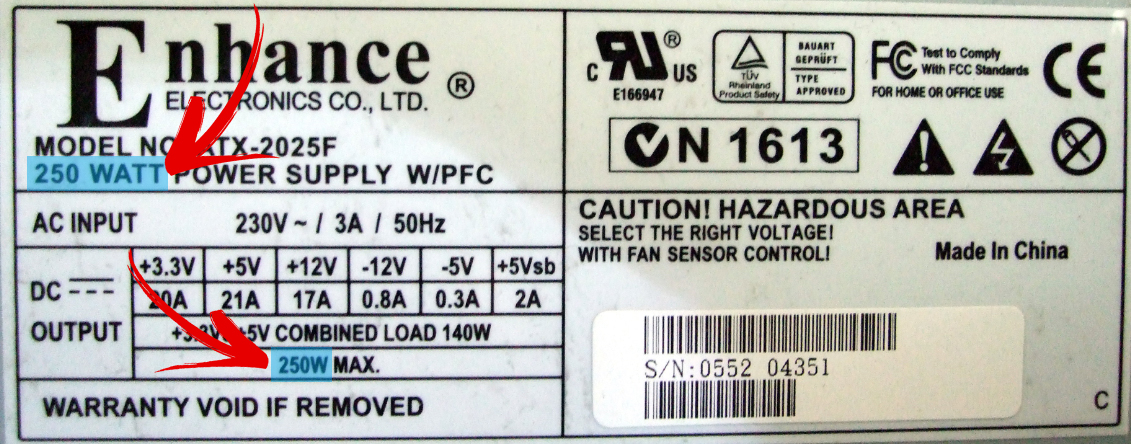
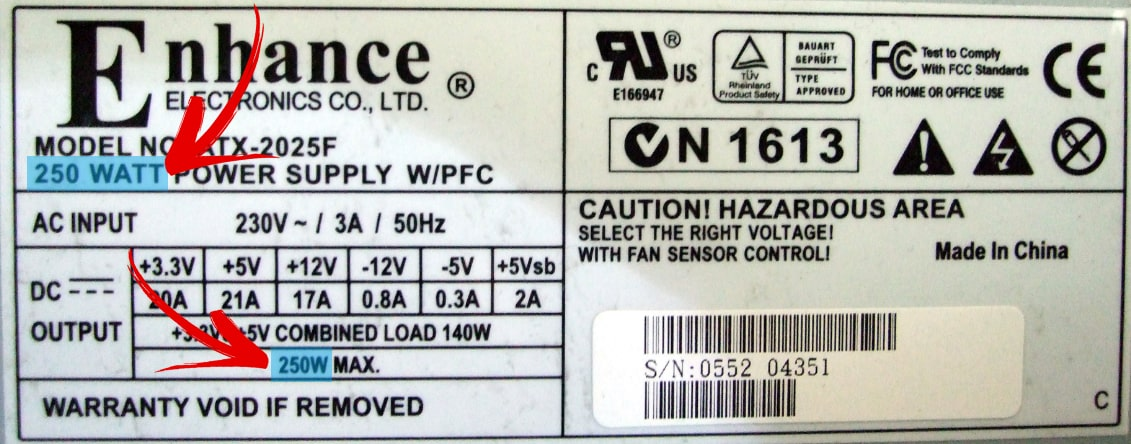
[development] Optimize images & remove unused import

diff --git a/SystemInfoCollector/SystemInfoCollector/Views/Preferences.xaml b/SystemInfoCollector/SystemInfoCollector/Views/Preferences.xaml
@@ -1,9 +1,8 @@
 <UserControl x:Class="SystemInfoCollector.Views.Preferences"
              xmlns="http://schemas.microsoft.com/winfx/2006/xaml/presentation"
+             xmlns:d="http://schemas.microsoft.com/expression/blend/2008"
              xmlns:x="http://schemas.microsoft.com/winfx/2006/xaml"
-             xmlns:mc="http://schemas.openxmlformats.org/markup-compatibility/2006" 
-             xmlns:d="http://schemas.microsoft.com/expression/blend/2008" 
-             xmlns:local="clr-namespace:SystemInfoCollector.Views"
+             xmlns:mc="http://schemas.openxmlformats.org/markup-compatibility/2006"
              mc:Ignorable="d" 
              d:DesignHeight="450" d:DesignWidth="800">
     <Grid>

diff --git a/SystemInfoCollector/SystemInfoCollector/Views/InfoView.xaml b/SystemInfoCollector/SystemInfoCollector/Views/InfoView.xaml
@@ -1,9 +1,8 @@
 <UserControl x:Class="SystemInfoCollector.Views.InfoView"
              xmlns="http://schemas.microsoft.com/winfx/2006/xaml/presentation"
+             xmlns:d="http://schemas.microsoft.com/expression/blend/2008"
              xmlns:x="http://schemas.microsoft.com/winfx/2006/xaml"
-             xmlns:mc="http://schemas.openxmlformats.org/markup-compatibility/2006" 
-             xmlns:d="http://schemas.microsoft.com/expression/blend/2008" 
-             xmlns:local="clr-namespace:SystemInfoCollector.Views"
+             xmlns:mc="http://schemas.openxmlformats.org/markup-compatibility/2006"
              mc:Ignorable="d" 
              d:DesignHeight="450" d:DesignWidth="800">
     <Grid>

diff --git a/SystemInfoCollector/SystemInfoCollector/Views/EnterPSUSpecs.xaml b/SystemInfoCollector/SystemInfoCollector/Views/EnterPSUSpecs.xaml
@@ -1,9 +1,8 @@
 <Window x:Class="SystemInfoCollector.Views.EnterPSUSpecs"
         xmlns="http://schemas.microsoft.com/winfx/2006/xaml/presentation"
-        xmlns:x="http://schemas.microsoft.com/winfx/2006/xaml"
         xmlns:d="http://schemas.microsoft.com/expression/blend/2008"
+        xmlns:x="http://schemas.microsoft.com/winfx/2006/xaml"
         xmlns:mc="http://schemas.openxmlformats.org/markup-compatibility/2006"
-        xmlns:local="clr-namespace:SystemInfoCollector.Views"
         mc:Ignorable="d"
         WindowStartupLocation="CenterScreen" 
         Title="EnterPSUSpecs" Height="450" Width="800">

diff --git a/SystemInfoCollector/SystemInfoCollector/Styles/Styles.xaml b/SystemInfoCollector/SystemInfoCollector/Styles/Styles.xaml
@@ -1,6 +1,6 @@
 <ResourceDictionary xmlns="http://schemas.microsoft.com/winfx/2006/xaml/presentation"
                     xmlns:x="http://schemas.microsoft.com/winfx/2006/xaml"
-                    xmlns:local="clr-namespace:SystemInfoCollector.Styles" xmlns:system="clr-namespace:System;assembly=mscorlib">
+                    xmlns:system="clr-namespace:System;assembly=mscorlib">
 
     <!--Colors-->
     <SolidColorBrush x:Key="Primary" Color="#5548e0"/>

diff --git a/SystemInfoCollector/SystemInfoCollector/Views/EnterPSUSpecs.xaml.cs b/SystemInfoCollector/SystemInfoCollector/Views/EnterPSUSpecs.xaml.cs
@@ -1,17 +1,6 @@
-using System;
-using System.Collections.Generic;
-using System.Linq;
-using System.Text;
-using System.Text.RegularExpressions;
-using System.Threading.Tasks;
+using System.Text.RegularExpressions;
 using System.Windows;
-using System.Windows.Controls;
-using System.Windows.Data;
-using System.Windows.Documents;
 using System.Windows.Input;
-using System.Windows.Media;
-using System.Windows.Media.Imaging;
-using System.Windows.Shapes;
 using SystemInfoCollector.Models;
 
 namespace SystemInfoCollector.Views

diff --git a/SystemInfoCollector/SystemInfoCollector/Views/InfoView.xaml.cs b/SystemInfoCollector/SystemInfoCollector/Views/InfoView.xaml.cs
@@ -1,17 +1,4 @@
-using System;
-using System.Collections.Generic;
-using System.Linq;
-using System.Text;
-using System.Threading.Tasks;
-using System.Windows;
-using System.Windows.Controls;
-using System.Windows.Data;
-using System.Windows.Documents;
-using System.Windows.Input;
-using System.Windows.Media;
-using System.Windows.Media.Imaging;
-using System.Windows.Navigation;
-using System.Windows.Shapes;
+using System.Windows.Controls;
 
 namespace SystemInfoCollector.Views
 {

diff --git a/SystemInfoCollector/SystemInfoCollector/Services/Collectors/NetworkInterfaceInfoCollector.cs b/SystemInfoCollector/SystemInfoCollector/Services/Collectors/NetworkInterfaceInfoCollector.cs
@@ -1,12 +1,5 @@
 using Microsoft.Win32;
-using System;
 using System.Collections.Generic;
-using System.Diagnostics;
-using System.Linq;
-using System.Net.NetworkInformation;
-using System.Text;
-using System.Threading.Tasks;
-using SystemInfoCollector.Models;
 
 namespace SystemInfoCollector.Services.Collectors
 {

diff --git a/SystemInfoCollector/SystemInfoCollector/Services/Collectors/PSUInfoCollector.cs b/SystemInfoCollector/SystemInfoCollector/Services/Collectors/PSUInfoCollector.cs
@@ -1,10 +1,4 @@
-using System;
-using System.Collections.Generic;
-using System.Linq;
-using System.Text;
-using System.Threading.Tasks;
-using SystemInfoCollector.Models;
-using SystemInfoCollector.Views;
+using SystemInfoCollector.Views;
 
 namespace SystemInfoCollector.Services.Collectors
 {

diff --git a/SystemInfoCollector/SystemInfoCollector/Services/Collectors/ClassicInfoCollector.cs b/SystemInfoCollector/SystemInfoCollector/Services/Collectors/ClassicInfoCollector.cs
@@ -1,11 +1,7 @@
 using System;
 using System.Collections.Generic;
 using System.Linq;
-using System.Text;
-using System.Threading.Tasks;
 using System.Management;
-using System.IO;
-using System.Diagnostics;
 using SystemInfoCollector.Models;
 
 namespace SystemInfoCollector.Services.Collectors

diff --git a/SystemInfoCollector/SystemInfoCollector/Models/GPU.cs b/SystemInfoCollector/SystemInfoCollector/Models/GPU.cs
@@ -1,11 +1,4 @@
-using System;
-using System.Collections.Generic;
-using System.Linq;
-using System.Text;
-using System.Threading.Tasks;
-using System.Windows;
-
-namespace SystemInfoCollector.Models
+namespace SystemInfoCollector.Models
 {
     public class GPU : Device
     {

diff --git a/SystemInfoCollector/SystemInfoCollector/Models/NetworkInterface.cs b/SystemInfoCollector/SystemInfoCollector/Models/NetworkInterface.cs
@@ -1,10 +1,4 @@
-using System;
-using System.Collections.Generic;
-using System.Linq;
-using System.Text;
-using System.Threading.Tasks;
-
-namespace SystemInfoCollector.Models
+namespace SystemInfoCollector.Models
 {
     public class NetworkInterface : Device
     {

diff --git a/SystemInfoCollector/SystemInfoCollector/Models/Motherboard.cs b/SystemInfoCollector/SystemInfoCollector/Models/Motherboard.cs
@@ -1,10 +1,4 @@
-using System;
-using System.Collections.Generic;
-using System.Linq;
-using System.Text;
-using System.Threading.Tasks;
-
-namespace SystemInfoCollector.Models
+namespace SystemInfoCollector.Models
 {
     public class Motherboard : Device
     {
